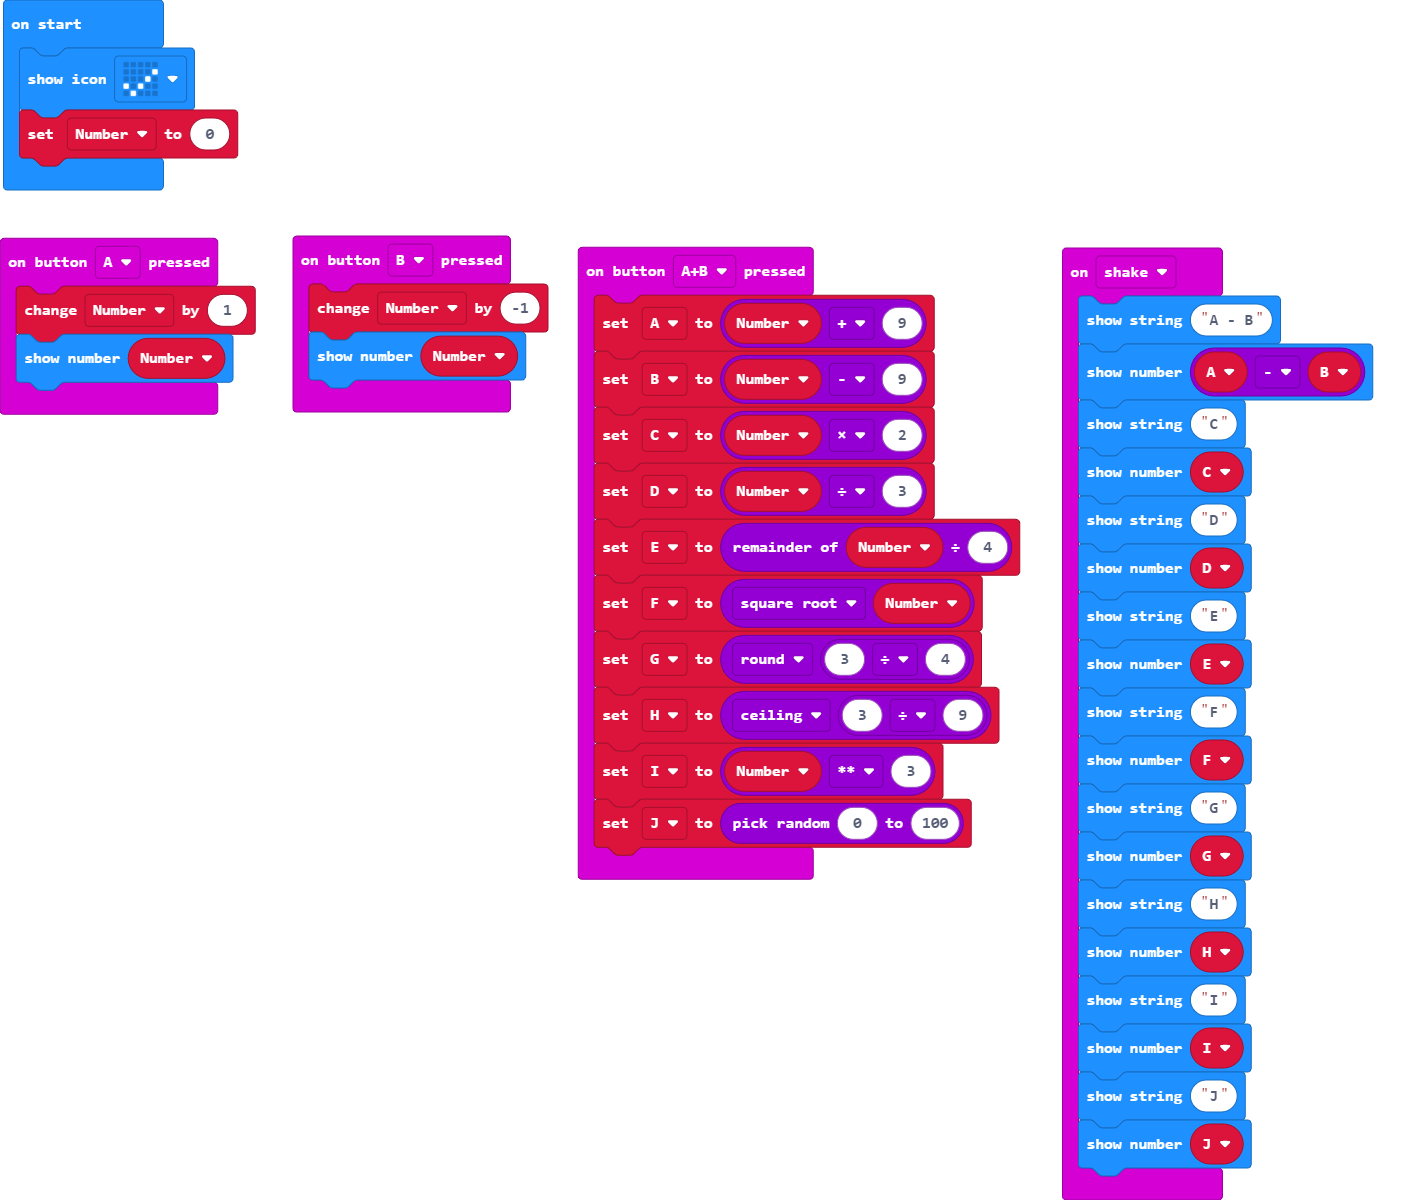
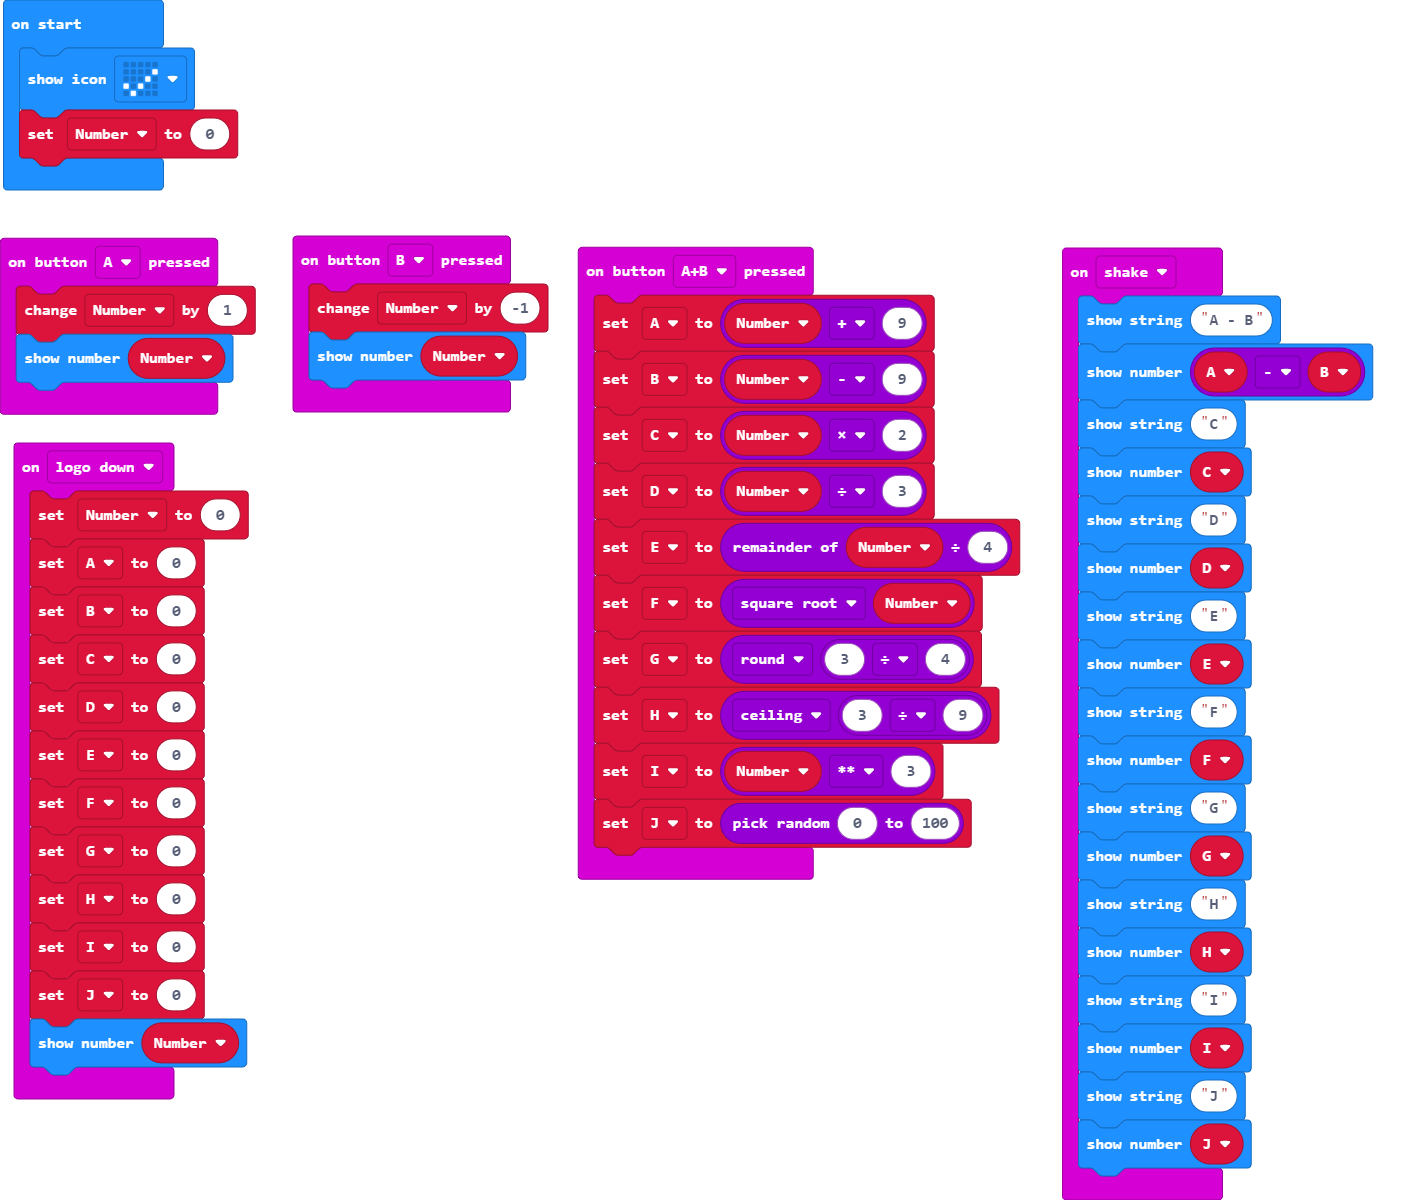
Update main.blocks, main.ts

Changed region(s): [[0.0, 0.37, 0.1853, 0.925]]

diff --git a/main.ts b/main.ts
@@ -38,6 +38,20 @@ input.onGesture(Gesture.Shake, function () {
     basic.showString("J")
     basic.showNumber(J)
 })
+input.onGesture(Gesture.LogoDown, function () {
+    Number2 = 0
+    A = 0
+    B = 0
+    C = 0
+    D = 0
+    E = 0
+    F = 0
+    G = 0
+    H = 0
+    I = 0
+    J = 0
+    basic.showNumber(Number2)
+})
 let J = 0
 let I = 0
 let H = 0
